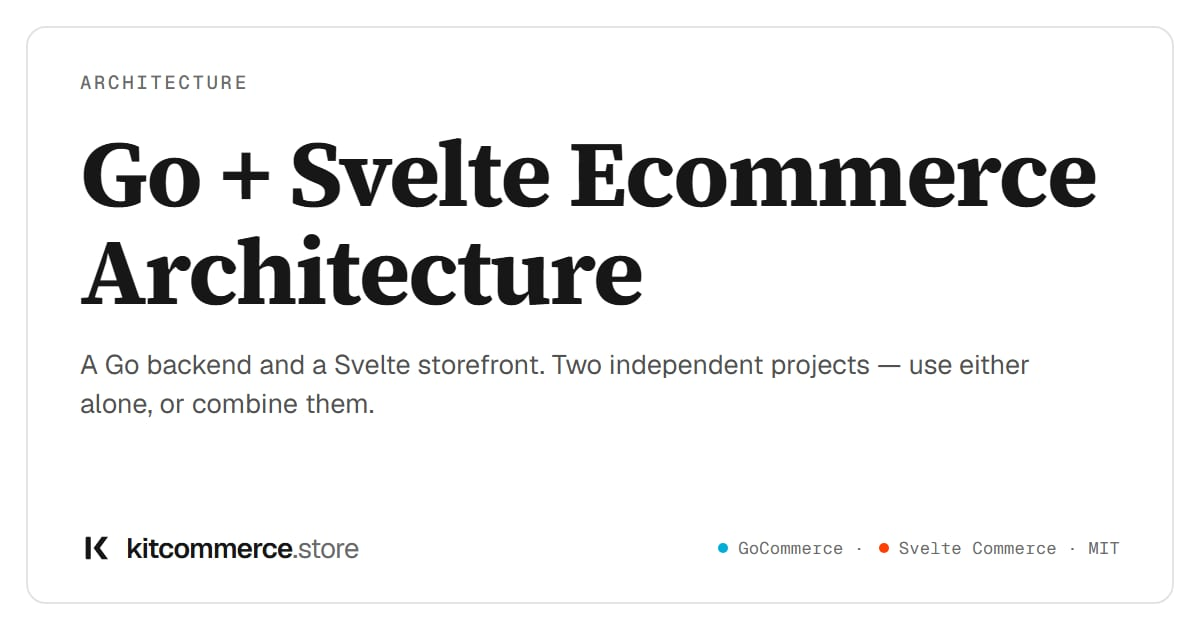
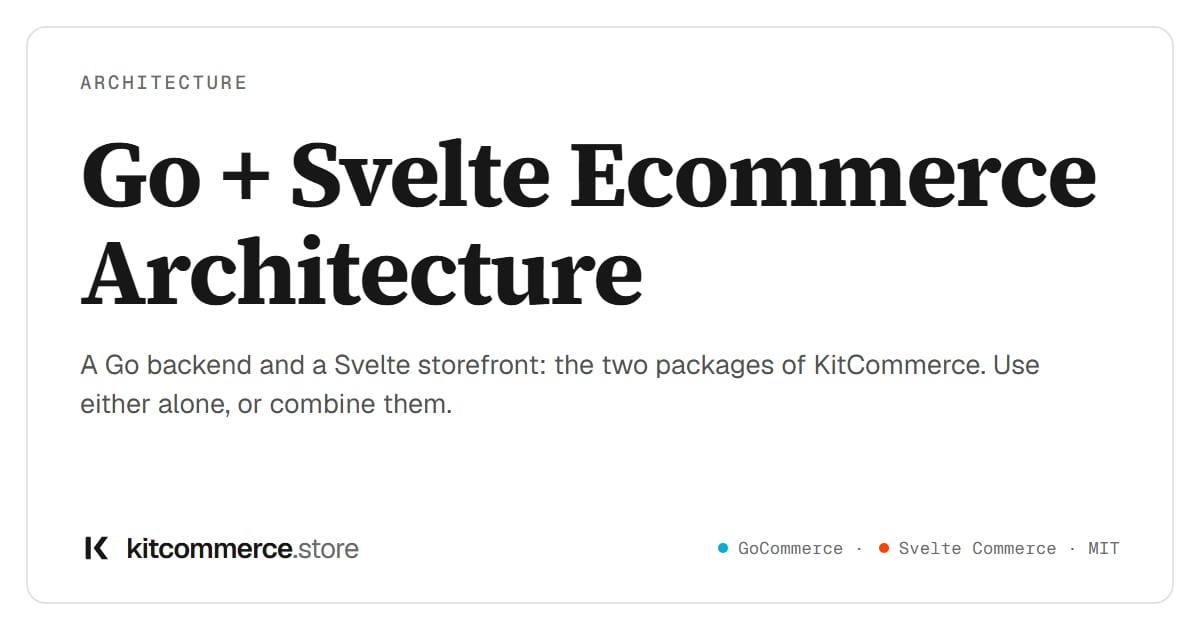
Present KitCommerce as one platform with two packages, the way Medusa does
"Two independent MIT projects" becomes "an open-source ecommerce platform
whose packages are GoCommerce and Svelte Commerce" in the footer, the
Organization and platform schema, the FAQs, the about and architecture
pages, the comparison summaries, llms.txt and the README rule. Each package
still works on its own, and the connector between them is still early.

Changed region(s): [[0.4625, 0.5429, 0.8633, 0.6032], [0.0617, 0.6032, 0.37, 0.6635]]

diff --git a/scripts/verify.js b/scripts/verify.js
@@ -1,12 +1,12 @@
 /**
  * Enforce the site's naming rules mechanically.
  *
- * KitCommerce is the platform made of GoCommerce and Svelte Commerce, and the
- * rules that keep that honest are easy to break by accident: a "KitCommerce
- * Cloud" or an "enterprise edition" reads naturally and describes something
- * that does not exist, and the project names drift ("Go Commerce",
- * "SvelteCommerce"). A rule nothing checks is a rule that drifts, so this
- * checks it.
+ * KitCommerce is the platform whose packages are GoCommerce and Svelte
+ * Commerce, and the rules that keep that honest are easy to break by
+ * accident: a "KitCommerce Cloud" or an "enterprise edition" reads naturally
+ * and describes something that does not exist, and the package names drift
+ * ("Go Commerce", "SvelteCommerce"). A rule nothing checks is a rule that
+ * drifts, so this checks it.
  *
  *   node scripts/verify.js
  *
@@ -59,11 +59,12 @@ const PAGES = htmlUnder(DIST)
 const RULES = [
   {
     // Since 25 September 2026 KitCommerce is the platform — GoCommerce and
-    // Svelte Commerce together — so "KitCommerce platform" is allowed. What it
-    // does not have is an edition, a tier, a cloud or an enterprise version,
-    // and a sentence claiming one describes something that does not exist.
+    // Svelte Commerce are its packages — so "KitCommerce platform" is
+    // allowed. What it does not have is an edition, a tier, a cloud or an
+    // enterprise version, and a sentence claiming one describes something that
+    // does not exist.
     re: /KitCommerce\s+(edition|tier|cloud|enterprise|pro|plus|premium)\b/gi,
-    why: 'KitCommerce has no edition, tier, cloud or enterprise version. It is two free MIT projects.',
+    why: 'KitCommerce has no edition, tier, cloud or enterprise version. Its packages, GoCommerce and Svelte Commerce, are free and MIT licensed.',
   },
   {
     // The repository slug is svelte-commerce; the project in prose is two words.

diff --git a/README.md b/README.md
@@ -13,10 +13,11 @@ npm run preview    # inspect dist/ locally
 
 ## What this site is
 
-**KitCommerce is the open-source ecommerce platform made of two independent
-MIT projects** — GoCommerce for the backend and admin, Svelte Commerce for the
-storefront — and `kitcommerce.store` is its website. Each project also works
-on its own.
+**KitCommerce is an open-source ecommerce platform whose packages are
+GoCommerce and Svelte Commerce** — GoCommerce for the backend and admin,
+Svelte Commerce for the storefront — presented the way Medusa presents itself:
+one platform, several packages. `kitcommerce.store` is its website. Each
+package is MIT licensed and also works on its own.
 
 | | GoCommerce | Svelte Commerce |
 | --- | --- | --- |
@@ -27,22 +28,23 @@ on its own.
 | Accent | Go blue `#00add8` | Svelte orange `#ff3e00` |
 
 The site takes no hue of its own and the wordmark is monochrome, because a
-website that wore one of the projects' colours would be claiming to be that
-project.
+website that wore one of the packages' colours would be claiming to be that
+package.
 
 ### The branding rule
 
 Since 25 September 2026 KitCommerce is presented as one product — the
-open-source ecommerce platform — whose two parts are GoCommerce and Svelte
-Commerce (the owner's decision, so directories can list it under one name).
+open-source ecommerce platform — whose two packages are GoCommerce and Svelte
+Commerce, the way Medusa is one platform made of packages (the owner's
+decision, so directories can list it under one name).
 What stays true, and what the verifier still holds the prose to:
 
 - There is **no KitCommerce edition, tier, cloud or enterprise version**, and
-  nothing to buy. It is the two MIT projects, free.
-- **Name the part that does the work** when a claim is about one of them:
+  nothing to buy. Both packages are MIT, free.
+- **Name the package that does the work** when a claim is about one of them:
   "GoCommerce's checkout", "Svelte Commerce's 26 backends".
 - **Don't overstate how joined they are.** The connector between them is early
-  (0.1.0), and each project runs without the other.
+  (0.1.0), and each package runs without the other.
 
 Spell them `GoCommerce` and `Svelte Commerce` — never `Go Commerce`,
 `SvelteCommerce` or, in prose, `Svelte-Commerce`. The repository slug is

diff --git a/src/content/blog/agentic-commerce-open-stack.md b/src/content/blog/agentic-commerce-open-stack.md
@@ -10,7 +10,7 @@ Search changed how people find a shop. Mobile changed what a shop has to be in t
 
 When the visitor is a program acting for a person, it does not look at the hero image. It asks questions — what is in stock, what does it cost, can it arrive by Friday — and it wants answers it can check. Whatever answers those questions is the storefront. More and more often, that is the API.
 
-Saleor made this argument well in [The Open End-to-End AI Ecommerce Stack](https://saleor.io/blog/end-to-end-agentic-commerce). This post takes the same argument to the two projects we build — GoCommerce, the backend and admin, and Svelte Commerce, the storefront — and is specific about what exists today and what does not.
+Saleor made this argument well in [The Open End-to-End AI Ecommerce Stack](https://saleor.io/blog/end-to-end-agentic-commerce). This post takes the same argument to KitCommerce and its two packages — GoCommerce, the backend and admin, and Svelte Commerce, the storefront — and is specific about what exists today and what does not.
 
 ## The API is the storefront now
 
@@ -84,7 +84,7 @@ That is the direction the architecture points. It is not a dated roadmap item, a
 
 Every new door — a search engine, a marketplace, an assistant — brings customers, and each would happily own the relationship. Let them send the customers. Do not let them own the store.
 
-Both projects are MIT licensed. You own the engine the agents talk to: its code, its database, its audit trail and its rules. If a protocol changes, you — or anyone you hire — can change the module that speaks it, without waiting on a vendor’s roadmap. And an agent unsure how a refund works can read the source instead of guessing.
+Both packages are MIT licensed. You own the engine the agents talk to: its code, its database, its audit trail and its rules. If a protocol changes, you — or anyone you hire — can change the module that speaks it, without waiting on a vendor’s roadmap. And an agent unsure how a refund works can read the source instead of guessing.
 
 The cost is that you run it. There is no hosted offering, and no store we know of runs GoCommerce in production yet. That is the trade: more to operate, and nothing between you and the next door but your own code.
 
